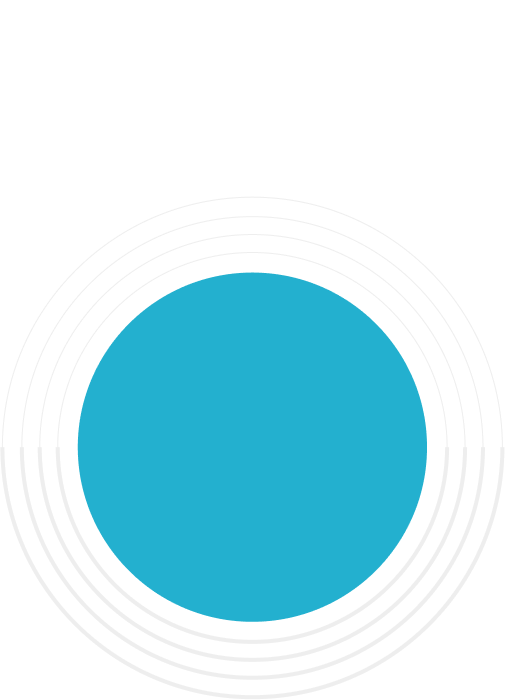
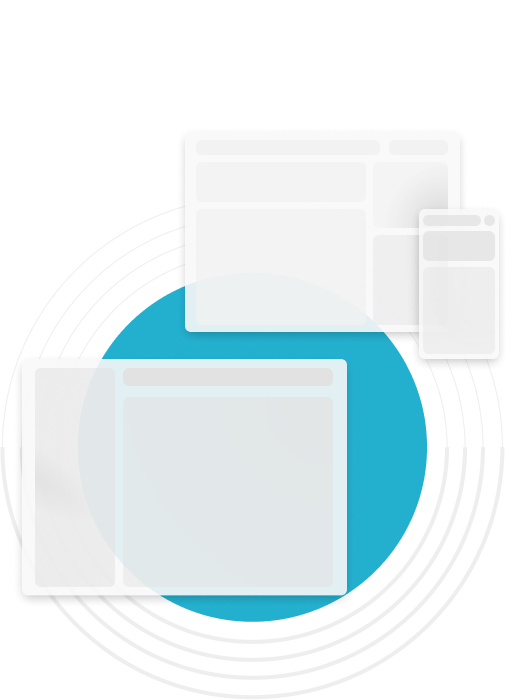
Updates

diff --git a/index.html b/index.html
@@ -18,14 +18,14 @@
         <div class="container">
             <div class="row justify-content-center">
                 <div
-                    class="col-12 col-lg-6 d-flex flex-column justify-content-center text-center text-lg-left">
+                    class="col-12 col-md-7 d-flex flex-column justify-content-center text-center text-md-left">
                     <header class="d-flex align-items-center py-2">
                         <a href="" title="Lorem dolor sit to home">
-                            <div class="logo">
+                            <div class="logo d-none">
                                 <img class="img-fluid" src="./assets/img/logo.svg"
                                     alt="Logo">
                             </div>
-                            <h1 class="name sr-only"><span
+                            <h1 class="name"><span
                                     class="text-primary-normal">ERS</span>PORTFOLIO</h1>
                         </a>
                         <div class="flex ml-auto ml-lg-4 social-profiles">
@@ -39,7 +39,7 @@
                             </a>
                         </div>
                     </header>
-                    <div class="py-4">
+                    <div class="pb-4">
                         <h2 class="title">Lorem ipsum dolor sit</h2>
                         <p class="description">
                             Olá, me chamo Lorem Ipsum. Lorem ipsum dolor sit amet
@@ -60,8 +60,8 @@
                     </div>
                 </div>
 
-                <div class="col-12 col-md-9 col-lg-6 px-5 px-lg-3">
-                    <img class="img-fluid" src="./assets/img/banner-ilustration-01.png"
+                <div class="col-12 col-md-5 px-5 px-md-2 d-none d-md-block">
+                    <img class="img-fluid" src="./assets/img/banner-ilustration.png"
                         alt="Ilustration">
                 </div>
             </div>

diff --git a/assets/css/styles.css b/assets/css/styles.css
@@ -10991,8 +10991,8 @@ body a:hover {
   text-decoration: none;
 }
 .banner .social-profiles a img {
-  width: 30px;
-  height: 30px;
+  width: 24px;
+  height: 24px;
 }
 .banner .name {
   font-size: 1rem;
@@ -11198,6 +11198,10 @@ body a:hover {
   }
   .banner .description {
     font-size: 1.15rem;
+  }
+  .banner .social-profiles a img {
+    width: 28px;
+    height: 28px;
   }
   .skills .skill-title {
     font-size: 1.4rem;

diff --git a/src/scss/_responsive.scss b/src/scss/_responsive.scss
@@ -65,6 +65,15 @@
         .description {
             font-size: 1.15rem;
         }
+
+        .social-profiles {
+            a {
+                img {
+                    width: 28px;
+                    height: 28px;
+                }
+            }
+        }
     }
 
     .skills {

diff --git a/src/scss/_custom.scss b/src/scss/_custom.scss
@@ -160,8 +160,8 @@ body {
             }
 
             img {
-                width: 30px;
-                height: 30px;
+                width: 24px;
+                height: 24px;
             }
         }
     }
